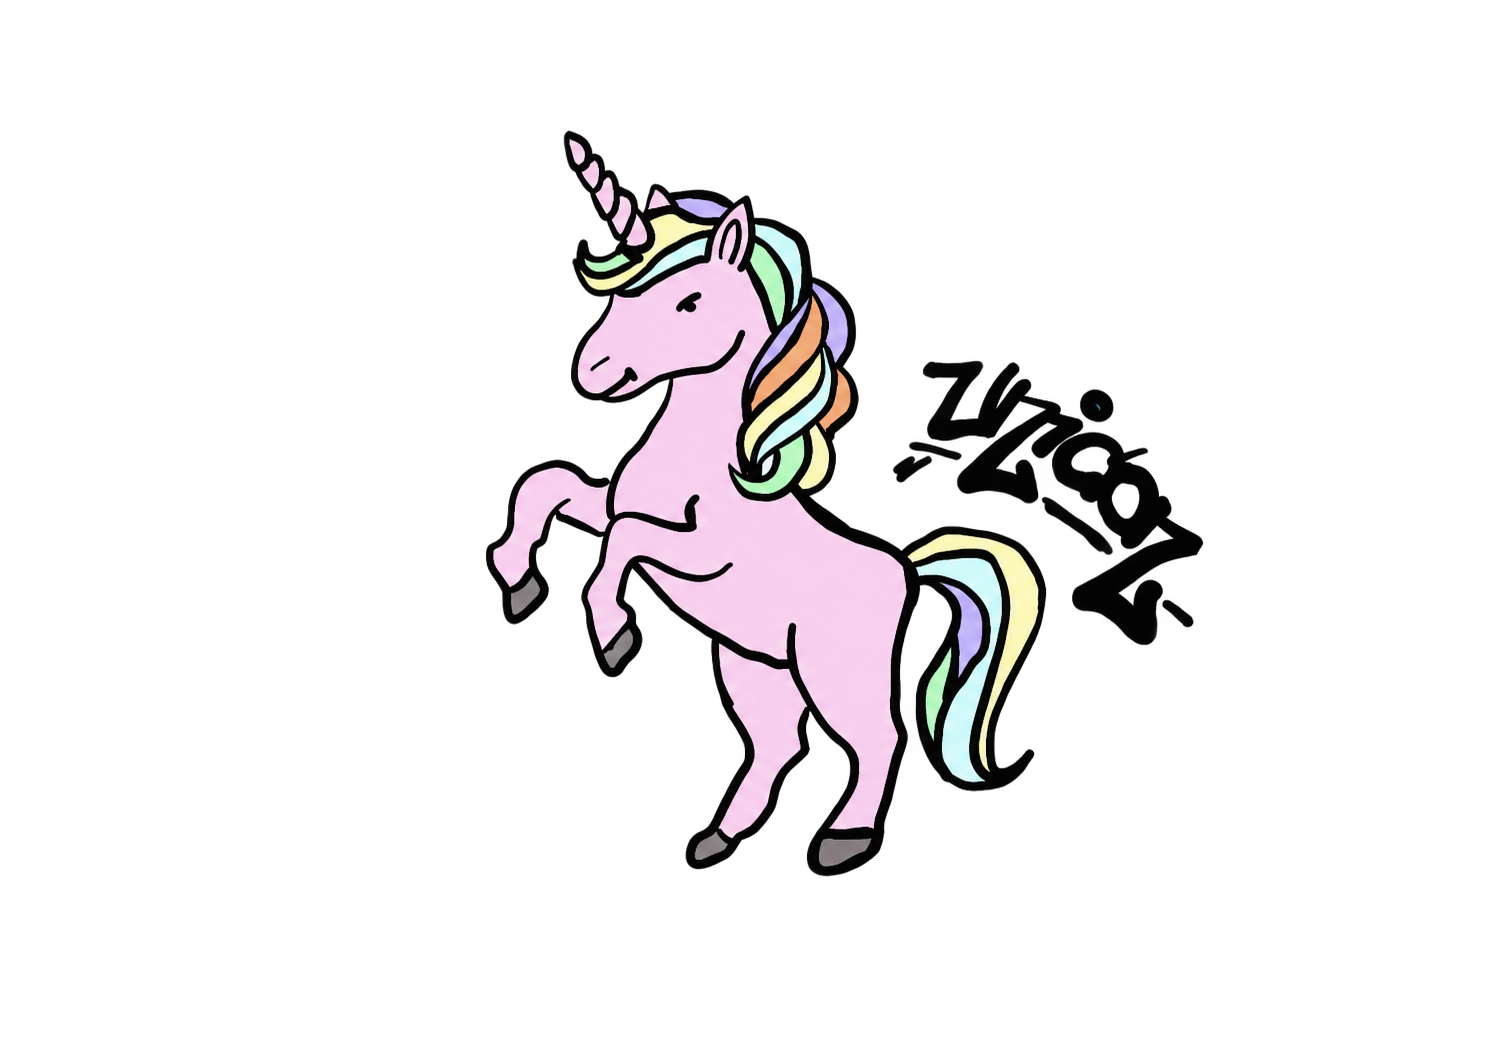
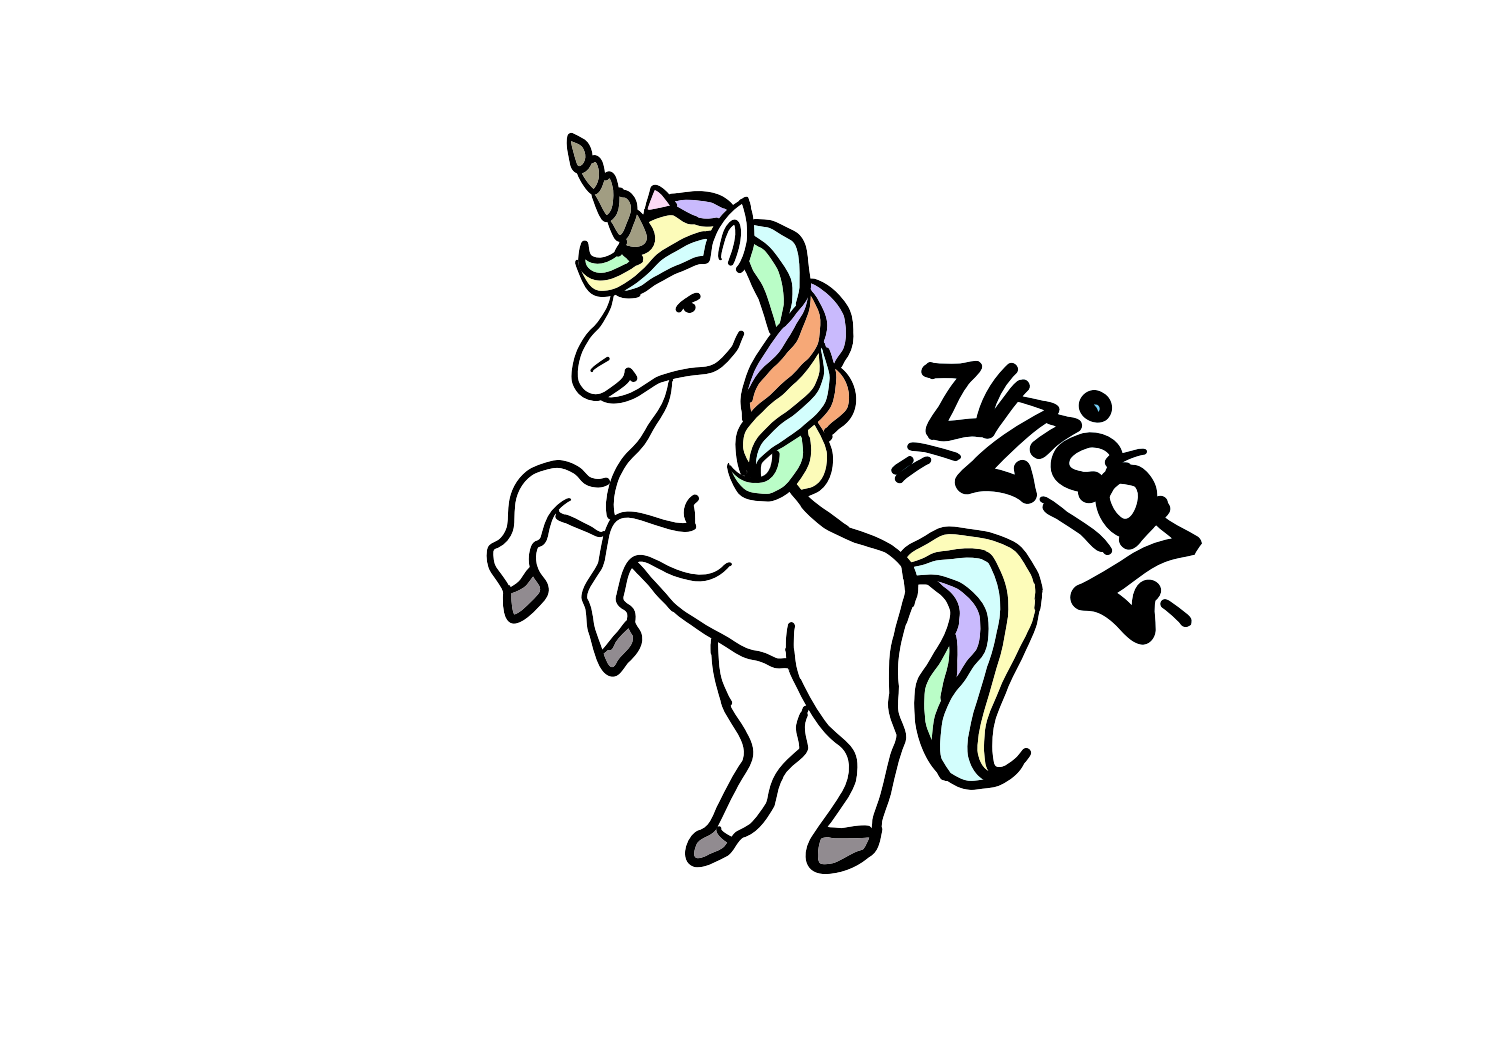
Sync project-name configuration and revised UniCon artwork

diff --git a/tests/database_setup.test.js b/tests/database_setup.test.js
@@ -201,6 +201,15 @@ test("YAML quoting preserves paths and URLs containing special characters", () =
   assert.match(yaml, /classifier\.qza\?value=a&x=2/);
 });
 
+test("one project name supplies the generated YAML, clone directory and report", () => {
+  const f = fixture();
+  f.set("projectName", "001-My_Project");
+  const yaml = f.run("configToYAML()");
+  assert.equal(yaml.split("\n").filter(row => row.startsWith("projectName:")).length, 1);
+  assert.match(yaml, /^projectName: "001-My_Project"$/m);
+  assert.doesNotMatch(yaml, /studyName/);
+});
+
 test("QIIME YAML paths and installed names serialize and validate consistently", () => {
   const f = fixture();
   for (const value of ["qiime2-2026.7", "base", "../envs/qiime.yml", '/shared/a "quoted" environment.yaml']) {
@@ -243,7 +252,13 @@ test("all generated database combinations validate against the downloaded schema
     "jsonschema.Draft202012Validator.check_schema(schema)",
     "validator = jsonschema.Draft202012Validator(schema)",
     "for config in payload['configs']:",
-    "    validator.validate(yaml.safe_load(config))",
+    "    parsed = yaml.safe_load(config)",
+    "    validator.validate(parsed)",
+    "    assert parsed['projectName'] == 'AMT29-analysis'",
+    "    assert 'studyName' not in parsed",
+    "invalid = yaml.safe_load(payload['configs'][0])",
+    "del invalid['projectName']",
+    "assert list(validator.iter_errors(invalid)), 'projectName must be required'",
     "for environment in ('qiime2-2026.7', '../envs/qiime.yaml'):",
     "    config = yaml.safe_load(payload['configs'][0])",
     "    config['qiime2version'] = environment",

diff --git a/index.html b/index.html
@@ -1034,6 +1034,7 @@ properties:
 
 required:
   - samplesheet
+  - projectName
   </script>
 
   <script id="package-samples-schema" type="text/plain">
@@ -1060,18 +1061,18 @@ if [[ ! ${#1} -eq 0 ]] ; then
 	echo "An analysis directory has been created for you at /home/$USER/GRUMP-snakemake-pipeline/$1 . It contains all the scripts needed to run the pipeline. The only things you need to do now are: 1) Modify the config.yml and samples.tsv to allow it to find your input files, use the appropriate primers, choose database versions, etc 2) Add metadata as needed, 3) Add prokaryotic and eukaryotic SSU amplicon concentration information, 4) Add internal standard info when used. Important note: The pipeline assumes your input files are demultiplexed fastq.gz files with the primers still attached. Filenames are determined by the combination of the variables \$rawdatadir, \$R1file_ending, \$R2file_ending, and the sample column in the file \"samples.tsv\", so be sure everything matches."
 fi
 
-studyName=$1
+projectName=$1
 
-studyDir=/home/$USER/GRUMP-snakemake-pipeline/$studyName
+projectDir=/home/$USER/GRUMP-snakemake-pipeline/$projectName
 
-mkdir -p $studyDir
+mkdir -p $projectDir
 
-cp -r config $studyDir
-cp -r snakemake $studyDir
-cp -r workflow $studyDir
-cp README.md $studyDir
+cp -r config $projectDir
+cp -r snakemake $projectDir
+cp -r workflow $projectDir
+cp README.md $projectDir
 
-sed -i "s/tutorial/${studyName}/" $studyDir/config/config.yml
+sed -i "s/^projectName:.*/projectName: \"${projectName}\"/" "$projectDir/config/config.yml"
   </script>
 </body>
 </html>

diff --git a/tests/project_name_sync.test.js b/tests/project_name_sync.test.js
@@ -6,13 +6,13 @@ const test = require("node:test");
 const html = fs.readFileSync(path.join(__dirname, "..", "index.html"), "utf8");
 const script = fs.readFileSync(path.join(__dirname, "..", "js", "script.js"), "utf8");
 
-test("project name is entered once and reused as the directory and study name", () => {
+test("project name is entered once and reused as the directory and output prefixes", () => {
   assert.equal((html.match(/id="projectName"/g) || []).length, 1);
   assert.doesNotMatch(html, /id="studyName"/);
   assert.match(script, /`git clone \$\{PIPELINE_REPOSITORY\} \$\{projectName\}`/);
   assert.match(script, /`cd \$\{projectName\}`/);
   assert.match(script, /`projectName: "\$\{projectName\}"`/);
-  assert.match(script, /`studyName: "\$\{projectName\}"`/);
+  assert.doesNotMatch(script, /studyName:/);
   assert.match(
     script,
     /`\$\{projectName\}-Results-Export\/\$\{projectName\}\.pipeline-report\.html`/

diff --git a/js/script.js b/js/script.js
@@ -879,7 +879,6 @@ function configToYAML() {
     '',
     'samplesheet: "config/samples.tsv"',
     `projectName: "${projectName}"`,
-    `studyName: "${projectName}"`,
     ...databaseConfigLines(),
     `conda_envs_dir: "${$("#conda_envs_dir").value.trim()}"`,
     `rawdatadir: "${$("#rawdatadir").value.trim()}"`,

diff --git a/README.md b/README.md
@@ -55,7 +55,7 @@ for project Pages URLs; the explicit website redirects are therefore retained.
 - Copy buttons should work in modern browsers and also have a fallback.
 - The download button creates a ZIP file in the browser.
 - The project name is entered once and is reused for the cloned directory,
-  `projectName`, `studyName`, configuration ZIP, Results-Export folder, and
+  `projectName`, configuration ZIP, Results-Export folder, and
   report filename.
 - Internal standards can be added or removed; the generated config, sample
   columns, and internal-standard table stay synchronized.
